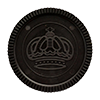
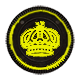
achicamos tablero y fichas

diff --git a/TP3/EntregaFinal/assets/js/juego.js b/TP3/EntregaFinal/assets/js/juego.js
@@ -30,15 +30,15 @@ class Juego {
     }
 
     generarFichas(ficha, pos) {
-        let radius = 45;
+        let radius = 35;
         if (pos == this.tablero.comienzoX - 120) {
             //genera la ficha 1 y la agrega al arreglo
-            ficha = new Ficha(pos + radius, (Math.random() * ((this.tablero.comienzoY + (this.tablero.ladoImagen * this.tablero.alto)) - this.tablero.comienzoY) + this.tablero.comienzoY), '#ff0000', ctx, radius, 'assets/images/ficha1.png', 1);
+            ficha = new Ficha(pos + radius, (Math.random() * ((this.tablero.comienzoY + (this.tablero.ladoImagen * this.tablero.alto)) - this.tablero.comienzoY) + this.tablero.comienzoY), '#ff0000', ctx, radius, 'assets/images/ficha1_2.png', 1);
 
             this.fichas.push(ficha);
         } else {
             //genera la ficha 2 y la agrega al arreglo
-            ficha = new Ficha(pos + radius, (Math.random() * ((this.tablero.comienzoY + (this.tablero.ladoImagen * this.tablero.alto)) - this.tablero.comienzoY) + this.tablero.comienzoY), '#ff0000', ctx, radius, 'assets/images/ficha2.png', 2);
+            ficha = new Ficha(pos + radius, (Math.random() * ((this.tablero.comienzoY + (this.tablero.ladoImagen * this.tablero.alto)) - this.tablero.comienzoY) + this.tablero.comienzoY), '#ff0000', ctx, radius, 'assets/images/ficha2_2.png', 2);
             //la ficha es  bloqueada porque siempre arranca el jugador 1
             ficha.bloquearFicha();
 
@@ -276,7 +276,7 @@ class Juego {
             if (tiempo == "0:00") {
                 //si el tiempo es 0 se termina el juego
                 clearInterval(this.espera);
-                tiempoFinal();
+                this.tiempoFinal();
             }
             cronometro_contenedor.innerHTML = tiempo;
         }, 1000);

diff --git a/TP3/EntregaFinal/assets/js/tablero.js b/TP3/EntregaFinal/assets/js/tablero.js
@@ -7,16 +7,16 @@ class Tablero {
         console.log(cantidad)
         //dependiendo la cantidad de fichas con las que se juega en donde commienza X
         if (cantidad == 4) {
-            this.comienzoX = 300;
+            this.comienzoX = 320;
         } else {
-            this.comienzoX = 200
+            this.comienzoX = 240
         }
 
-        this.comienzoY = 100;
-        this.ladoImagen = 100;
+        this.comienzoY = 80;
+        this.ladoImagen = 80;
         this.ctx = ctx;
         this.image = new Image();
-        this.image.src = "assets/images/tablero_forma.png";
+        this.image.src = "assets/images/tablero_forma2.png";
         this.matriz = this.generarMatriz();
         this.arrCol = this.generarArregloColumnas();
 
